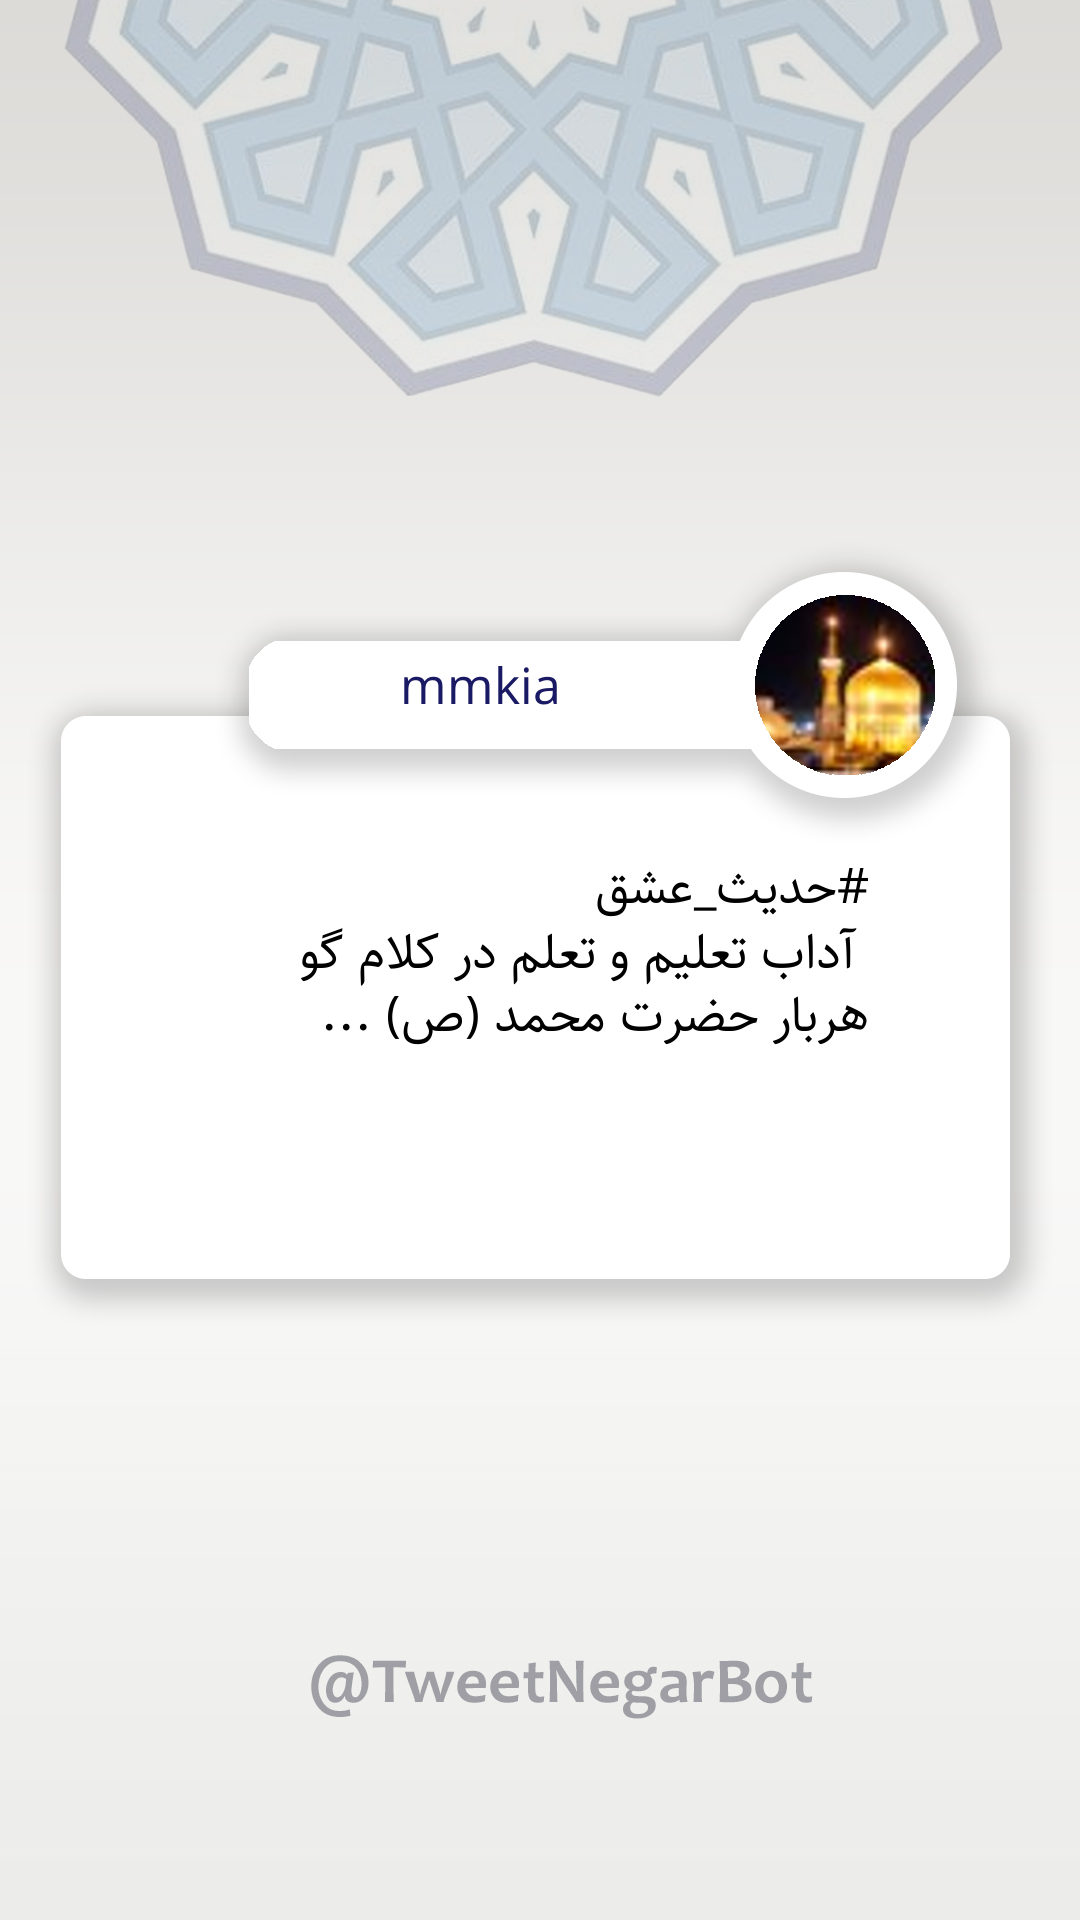
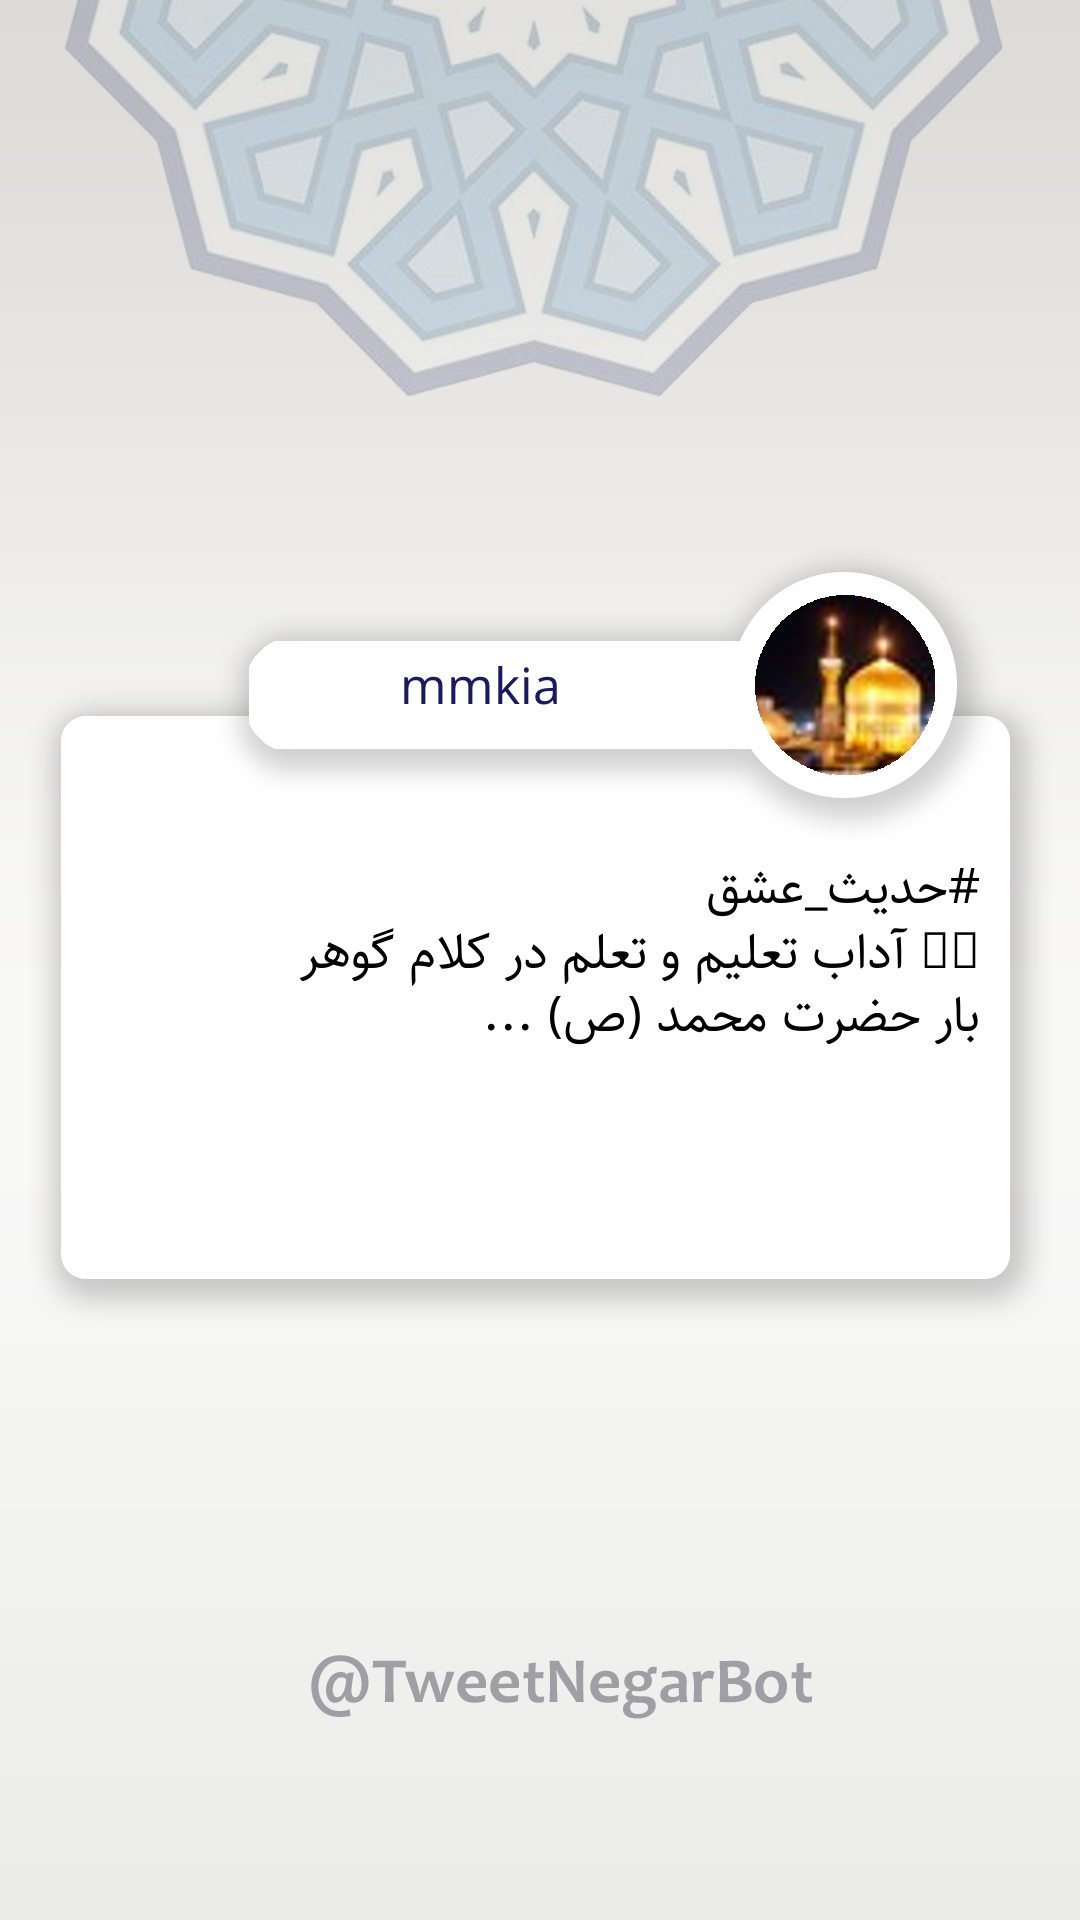
read from json

Changed region(s): [[0.275, 0.4375, 0.9167, 0.5625], [0.8861, 0.5, 0.9167, 0.5312]]

diff --git a/img_generator.py b/img_generator.py
@@ -43,7 +43,7 @@ reshaped_text = arabic_reshaper.reshape(username)    # correct its shape
 bidi_name = get_display(reshaped_text)
 
 # tweet content
-text =  tweet_content[:40] + '\n' + tweet_content[40:80] + '\n' + tweet_content[80:120] + '\n' + tweet_content[120:160] + '\n' + tweet_content[160:200] + '\n' + tweet_content[200:240] + '\n' + tweet_content[240:280]
+text =  tweet_content[:44] + '\n' + tweet_content[44:80] + '\n' + tweet_content[80:120] + '\n' + tweet_content[120:160] + '\n' + tweet_content[160:200] + '\n' + tweet_content[200:240] + '\n' + tweet_content[240:280]
 # Content Should Wrap in a Better Way, this is just for test!!
 
 reshaped_text = arabic_reshaper.reshape(text)    # correct its shape
